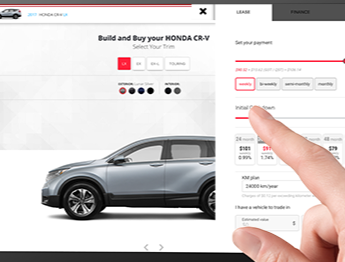
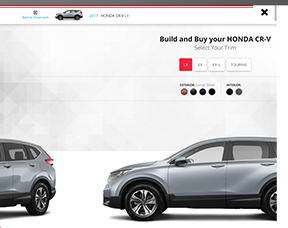
Showroom recadré sur l'interface seule, ligne du hero dégagée du nom

diff --git a/src/components/Hero.tsx b/src/components/Hero.tsx
@@ -56,12 +56,12 @@ function LineMap({ colors, reduced }: { colors: string[]; reduced: boolean }) {
   // routed along the right edge and above the name so no segment crosses body copy or the board
   const pts = [
     [1440, 720],
-    [1240, 720],
-    [1060, 540],
-    [1060, 330],
-    [880, 150],
-    [600, 150],
-    [430, -20],
+    [1280, 720],
+    [1200, 640],
+    [1200, 330],
+    [1040, 150],
+    [720, 150],
+    [560, -20],
   ]
   const d = pts.map(([x, y], i) => `${i === 0 ? 'M' : 'L'}${x} ${y}`).join(' ')
   const stations = [pts[1], pts[2], pts[3], pts[4], pts[5]]

diff --git a/src/components/Visuals.tsx b/src/components/Visuals.tsx
@@ -93,7 +93,7 @@ function ShowroomVisual() {
         src="/projects/showroom-tablet-screen.png"
         alt={lang === 'fr' ? 'Showroom 360 : configuration d’un véhicule et calcul du financement' : 'Showroom 360: vehicle build and financing calculator'}
         url="showroom 360 — build & buy"
-        ratio="345 / 262"
+        ratio="288 / 228"
       />
     </Tilt>
   )

diff --git a/src/components/Visuals.module.scss b/src/components/Visuals.module.scss
@@ -91,6 +91,8 @@
 /* ---------- Showroom ---------- */
 .showroom {
   padding: 4% 0;
+  max-width: 560px;
+  margin-inline: auto;
 }
 
 /* ---------- Facilité ---------- */

diff --git a/DESIGN.md b/DESIGN.md
@@ -1,0 +1,326 @@
+---
+name: Portfolio Corentin Le Gourrierec
+description: Une carrière lue comme une ligne de transport, encre profonde, signal vert, une couleur de ligne par station.
+colors:
+  ink-0: "#07080c"
+  ink-1: "#0c0e15"
+  ink-2: "#12151f"
+  ink-3: "#1a1e2b"
+  edge: "rgba(255, 255, 255, 0.08)"
+  edge-strong: "rgba(255, 255, 255, 0.16)"
+  paper: "#eef0f5"
+  paper-2: "#b8bfd1"
+  paper-3: "#8089a1"
+  signal: "#5cf0a2"
+  signal-ink: "#062b18"
+  station-akinox: "#3d86f0"
+  station-expretio: "#7c5cff"
+  station-360agency: "#ff4b5c"
+  station-facilite: "#ffb340"
+  station-lorient: "#2ad4c6"
+typography:
+  display:
+    fontFamily: "Archivo, Helvetica Neue, Arial, sans-serif"
+    fontSize: "min(clamp(40px, 14px + 7.22vw, 118px), 9.6vw)"
+    fontWeight: 850
+    lineHeight: 0.88
+    letterSpacing: "-0.03em"
+    fontVariation: "'wdth' 116, 'wght' 850"
+  headline:
+    fontFamily: "Archivo, Helvetica Neue, Arial, sans-serif"
+    fontSize: "clamp(40px, 21.33px + 5.19vw, 96px)"
+    fontWeight: 800
+    lineHeight: 0.95
+    letterSpacing: "-0.03em"
+    fontVariation: "'wdth' 118, 'wght' 800"
+  tagline:
+    fontFamily: "Archivo, Helvetica Neue, Arial, sans-serif"
+    fontSize: "clamp(22px, 18px + 1.11vw, 34px)"
+    fontWeight: 700
+    lineHeight: 1.1
+    letterSpacing: "-0.02em"
+    fontVariation: "'wdth' 108, 'wght' 700"
+  title:
+    fontFamily: "Archivo, Helvetica Neue, Arial, sans-serif"
+    fontSize: "clamp(20px, 17.33px + 0.74vw, 28px)"
+    fontWeight: 700
+    lineHeight: 1.15
+    letterSpacing: "-0.03em"
+    fontVariation: "'wdth' 108, 'wght' 700"
+  lede:
+    fontFamily: "Archivo, Helvetica Neue, Arial, sans-serif"
+    fontSize: "clamp(17px, 15.33px + 0.46vw, 22px)"
+    fontWeight: 400
+    lineHeight: 1.45
+    letterSpacing: "normal"
+    fontVariation: "'wdth' 100, 'wght' 400"
+  body:
+    fontFamily: "Archivo, Helvetica Neue, Arial, sans-serif"
+    fontSize: "1.0625rem"
+    fontWeight: 400
+    lineHeight: 1.55
+    letterSpacing: "normal"
+    fontVariation: "'wdth' 100, 'wght' 400"
+  label:
+    fontFamily: "Archivo, Helvetica Neue, Arial, sans-serif"
+    fontSize: "0.72rem"
+    fontWeight: 700
+    lineHeight: 1
+    letterSpacing: "0.14em"
+    fontVariation: "'wdth' 118, 'wght' 700"
+  mono:
+    fontFamily: "Martian Mono, ui-monospace, SF Mono, Menlo, monospace"
+    fontSize: "0.74rem"
+    fontWeight: 500
+    lineHeight: 1
+    letterSpacing: "normal"
+    fontFeature: "tabular-nums"
+rounded:
+  cell: "3px"
+  tag: "4px"
+  chip: "6px"
+  board: "8px"
+  frame: "14px"
+  pill: "999px"
+spacing:
+  hairline-row: "16px"
+  stack-gap: "20px"
+  station-inner: "clamp(28px, 21.33px + 1.85vw, 48px)"
+  station-body: "clamp(32px, 24px + 2.22vw, 56px)"
+  section-header: "clamp(48px, 24px + 6.67vw, 120px)"
+  section-block: "clamp(80px, 53.33px + 7.41vw, 160px)"
+  station-gap: "clamp(96px, 61.33px + 9.63vw, 200px)"
+  gutter: "clamp(16px, 4vw, 48px)"
+  container: "1360px"
+  nav-h: "64px"
+components:
+  btn-primary:
+    backgroundColor: "{colors.signal}"
+    textColor: "{colors.signal-ink}"
+    typography: "{typography.label}"
+    rounded: "{rounded.pill}"
+    padding: "1.05em 1.5em"
+  btn-ghost:
+    backgroundColor: "transparent"
+    textColor: "{colors.paper}"
+    typography: "{typography.label}"
+    rounded: "{rounded.pill}"
+    padding: "1.05em 1.5em"
+  nav-link:
+    backgroundColor: "transparent"
+    textColor: "{colors.paper-2}"
+    typography: "{typography.label}"
+    rounded: "{rounded.pill}"
+    padding: "0.9em 1em"
+  nav-link-hover:
+    backgroundColor: "rgba(255, 255, 255, 0.06)"
+    textColor: "{colors.paper}"
+  lang-toggle:
+    backgroundColor: "transparent"
+    textColor: "{colors.paper-3}"
+    typography: "{typography.mono}"
+    rounded: "{rounded.pill}"
+    padding: "0.6em 0.9em"
+  chip-stack:
+    backgroundColor: "rgba(var(--s-rgb), 0.08)"
+    textColor: "{colors.paper}"
+    typography: "{typography.mono}"
+    rounded: "{rounded.chip}"
+    padding: "0.55em 0.9em"
+  chip-tab:
+    backgroundColor: "transparent"
+    textColor: "{colors.paper-3}"
+    typography: "{typography.label}"
+    rounded: "{rounded.pill}"
+    padding: "0.9em 1.1em"
+  chip-tab-selected:
+    backgroundColor: "rgba(var(--station-rgb), 0.12)"
+    textColor: "{colors.paper}"
+  screen-frame:
+    backgroundColor: "{colors.ink-2}"
+    rounded: "{rounded.frame}"
+  split-flap-board:
+    backgroundColor: "{colors.ink-1}"
+    rounded: "{rounded.board}"
+    padding: "0.55em"
+  split-flap-cell:
+    backgroundColor: "{colors.ink-3}"
+    textColor: "{colors.paper}"
+    typography: "{typography.mono}"
+    rounded: "{rounded.cell}"
+  hairline-row:
+    backgroundColor: "transparent"
+    textColor: "{colors.paper}"
+    padding: "18px 0"
+---
+
+# Design System: Portfolio Corentin Le Gourrierec
+
+## Overview
+
+**Creative North Star: "Le plan de ligne"**
+
+Le site est un plan de transport lu de haut en bas : cinq stations (Akinox, Expretio, 360.Agency, Facilité Informatique, Ville de Lorient), un rail vertical qui se remplit au scroll, un marqueur « vous êtes ici » épinglé à 55 % de la hauteur d'écran. Tout ce qui est écrit a la voix d'une signalétique de quai : Archivo étiré et en capitales pour les panneaux, Martian Mono pour les tableaux de départ et les données, texte courant en Archivo à chasse normale. Le fond est une encre profonde (`ink-0`) qui ne lit jamais comme du noir plat grâce à un grain SVG fixe à 35 % d'opacité et à deux halos radiaux teintés par la station active.
+
+La couleur structure la lecture. Le vert `signal` est réservé à l'utilisateur (« vous êtes ici », action principale, sélection, focus, terminus). Chaque station impose sa couleur de ligne à toute la page via `--station` / `--station-rgb` posés sur `:root` par un IntersectionObserver ; barre de progression de la nav, point de marque, remplissage du rail, halos, onglets sélectionnés, années de formation et niveaux de langue suivent tous cette variable. Un seul moment d'animation est réellement mis en scène : le rail et la couleur qui avancent avec le scroll. Le reste est de l'entrée (flou vers net) ou de la réponse à un geste.
+
+La densité est éditoriale : sections espacées de 80 à 200 px, stations séparées de 96 à 200 px, listes en rangées séparées par des filets à 8 % de blanc. Aucune carte : les contenus sont posés directement sur l'encre, et seuls les écrans de produits (navigateur, téléphone, éditeur, tuiles) reçoivent un cadre et une ombre.
+
+**Key Characteristics:**
+- Encre profonde à quatre paliers, texte en trois teintes de papier, un seul vert signal.
+- Couleur de ligne par station, propagée à toute la page par `--station` / `--station-rgb`.
+- Archivo variable : largeur 104–122 pour l'affichage et la signalétique, 100 pour le texte courant.
+- Martian Mono en chiffres tabulaires pour dates, URL, cellules du tableau à volets, puces de stack.
+- Rangées à filets et pilules, jamais de cartes ; cadres d'écran réservés aux visuels produits.
+- Motion : un moment scroll-driven, entrées flou-vers-net, tout inerte sous `prefers-reduced-motion` ou `?static`.
+
+## Colors
+
+Une encre bleutée profonde, trois papiers froids, un vert signal saturé, et cinq couleurs de ligne qui ne coexistent que sur le plan du hero.
+
+### Primary
+- **Signal vert** (`signal`) : la couleur de l'utilisateur. Bouton principal, `::selection`, anneau de focus (2 px, décalé de 4 px), point de marque au repos, terminus de la section contact, départ du dégradé du rail, halo du hero (`rgba(92, 240, 162, 0.16)`) et du contact (`0.14`). Jamais utilisé pour un titre ni pour un texte courant.
+- **Signal encre** (`signal-ink`) : seul texte autorisé sur fond `signal` (bouton principal, lien d'évitement, sélection).
+
+### Secondary
+- **Couleur de station** (`--station`, avec `--station-rgb` pour les alphas) : variable vivante, jamais une valeur fixe dans un composant. Valeurs : bleu Québec `station-akinox`, violet Appia `station-expretio`, rouge 360 `station-360agency`, ambre `station-facilite`, turquoise Lorient `station-lorient`. Elle colore la barre de progression de la nav (2 px), le point de marque une fois scrollé, l'arrêt actif du rail, les halos du parcours (`0.16` et `0.08`), les onglets sélectionnés (`0.12`), les années de formation, les jauges de langue, la face survolée des compétences. Dans une station, la même couleur est locale sous `--s` / `--s-rgb` (années, chiffres, tirets de puces, chips de stack à `0.08` de fond et `0.35` de bordure).
+
+### Neutral
+- **Encre 0** (`ink-0`) : fond de page, fond des arrêts de rail (le cercle est évidé sur l'encre).
+- **Encre 1** (`ink-1`) : plateau du tableau à volets, champ d'URL des cadres navigateur.
+- **Encre 2** (`ink-2`) : fond des cadres d'écran (`screen-frame`), onglet actif de l'éditeur.
+- **Encre 3** (`ink-3`) : cellules du tableau à volets, barre de chrome des cadres, onglets d'éditeur.
+- **Filet** (`edge`) : tous les séparateurs et bordures de repos (rangées, cadres, plateau, chips inactifs).
+- **Filet fort** (`edge-strong`) : bordures de boutons fantômes, bascule de langue, corps des téléphones, encadrés « illustration » en pointillés.
+- **Papier** (`paper`) : titres, valeurs, texte des chips, deuxième face des noms.
+- **Papier 2** (`paper-2`) : texte courant, ledes, narrations, liens de nav au repos, seconde ligne du nom du hero.
+- **Papier 3** (`paper-3`) : labels de signalétique, légendes, URL, nom de famille dans la marque, notes de sources.
+
+### Named Rules
+**La règle du signal unique.** Le vert `signal` désigne l'utilisateur et son action ; il ne colore ni titre, ni texte, ni décoration de station. Sur un écran, on le voit sur l'action principale, le focus, le point de marque et rien d'autre.
+
+**La règle de la ligne vivante.** Une couleur de station n'est jamais écrite en dur dans un composant : elle passe par `--station` (page) ou `--s` (station courante), et toute teinte de fond dérivée se fait en `rgba(var(--station-rgb), α)` avec α ≤ 0.18.
+
+**La règle des trois papiers.** Le texte n'a que trois valeurs : `paper` pour ce qui se lit en premier, `paper-2` pour ce qui se lit, `paper-3` pour ce qui se repère. Aucun gris intermédiaire.
+
+## Typography
+
+**Display Font:** Archivo variable (axes `wdth` 62–125, `wght` 100–900), fallback Helvetica Neue, Arial
+**Body Font:** Archivo à chasse 100, graisse 400
+**Label/Mono Font:** Martian Mono (graisses 300–800), fallback ui-monospace, SF Mono, Menlo
+
+**Character :** une seule famille qui change de largeur selon son rôle. Étirée (104–122) et lourde (700–850) pour les panneaux, normale (100) pour la lecture, étirée et espacée (0.14em) en capitales pour les labels. Martian Mono, toujours en chiffres tabulaires, est la voix des données : dates, URL, tableau de départ, stack.
+
+### Hierarchy
+- **Display** (Archivo wdth 116 / wght 850, `min(fluid(40, 118), 9.6vw)`, interligne 0.88, capitales) : le nom du hero. Les noms d'entreprise utilisent la même famille à wdth 104 (122 dès 820 px) / wght 850 avec une taille bornée pour que le mot le plus long tienne sur une ligne (`fluid(44, 128)` plafonné par `min(80vw, 1150px) / (glyphe × longueur)`). Le titre du contact monte à wdth 120 / wght 850, `fluid(48, 140)`.
+- **Headline** (wdth 118 / wght 800, `fluid(40, 96)`, interligne 0.95, capitales) : titres de section « Parcours », « Expertise », « Formation ».
+- **Tagline** (wdth 108 / wght 700, `fluid(22, 34)`, interligne 1.1, espacement -0.02em) : phrase d'accroche de chaque station. Même réglage à `fluid(24, 46)` pour les compétences.
+- **Title** (wdth 108 / wght 700, `fluid(20, 28)`, interligne 1.15) : intitulés de diplômes, noms de langues (`fluid(20, 26)`).
+- **Lede** (wdth 100 / wght 400, `fluid(17, 22)`, interligne 1.45, `paper-2`, 54–62ch, `text-wrap: pretty`) : introduction du hero (`fluid(17, 24)`, 56ch) et ledes de section.
+- **Body** (wdth 100 / wght 400, 1.0625rem, interligne 1.55, `paper-2`) : narrations de station (`fluid(16, 18)`), puces (0.98rem). Rôle et ville à wght 500, `fluid(16, 21)`.
+- **Label / signage** (wdth 112–120 / wght 600–700, 0.72rem, espacement 0.14em, capitales, interligne 1) : boutons, liens de nav, labels de stack, titres de plateforme, labels de contact, marqueur « vous êtes ici », onglets du deck.
+- **Mono** (Martian Mono 500–600, tabular-nums) : années de station (`fluid(14, 20)`, 600, espacement 0.04em, couleur de station), bascule FR/EN (0.78rem, 600), chips de stack (0.74rem, 500), URL des cadres (0.66rem), notes de sources (0.68rem, 400), cellules du tableau à volets (600, taille calée sur la largeur de cellule).
+- **Figures** (wdth 112 / wght 800, `fluid(28, 44)`, interligne 1, couleur de station) : chiffres clés en `dd` avant leur `dt` à 0.85rem `paper-3`.
+
+### Named Rules
+**La règle de la chasse.** La largeur Archivo dit le rôle : ≥ 104 et capitales pour ce qui s'affiche, 100 pour ce qui se lit. Un texte courant n'est jamais étiré, un titre n'est jamais à chasse 100.
+
+**La règle du tableau de départ.** Toute donnée (date, URL, version, stack, chiffre de tableau) est en Martian Mono à chiffres tabulaires ; toute prose est en Archivo. Les deux ne se mélangent pas dans une même ligne, sauf le séparateur.
+
+**La règle de la ligne entière.** Un nom d'entreprise ne se coupe jamais dans un mot : la taille se réduit avant la césure (`overflow-wrap: normal` + plafond calculé).
+
+## Layout
+
+Un seul conteneur : `min(100% - 2 × gutter, 1360px)` centré, gouttière fluide `clamp(16px, 4vw, 48px)`. Points de rupture mobile-first : 560 px (`sm`), 820 px (`md`), 1080 px (`lg`), 1400 px (`xl`). Nav fixe de 64 px (`--nav-h`) avec un voile en dégradé vertical `rgba(7,8,12,.92) → 0` qui n'apparaît qu'une fois scrollé, et une barre de progression de 2 px en couleur de station au bord inférieur.
+
+Le hero occupe `100svh`, grille à une colonne alignée à gauche, plan de ligne SVG en arrière-plan (opacité 0.5 → 0.7 à `md` → 0.85 à `lg`, masqué vers le bas sous `md`). Le parcours est une grille `rail | stations` de 28 px + 16 px d'écart, 72 px + 32 px à `md`, 96 px + 48 px à `lg`. Chaque station est une grille en-tête / corps ; le corps passe en deux colonnes `5fr / 7fr` à `lg`, inversées `7fr / 5fr` pour les stations paires à `xl`. Les en-têtes de section « titre | lede » passent en deux colonnes égales à `lg`. La formation passe en `7fr / 5fr` à `lg`.
+
+Rythme vertical par `fluid(min, max)` entre 360 et 1440 px : sections `fluid(80, 160)` à `fluid(100, 200)` de padding, en-tête de section `fluid(48, 120)` de marge basse, stations séparées de `fluid(96, 200)`, intérieur de station `fluid(28, 48)`, corps `fluid(32, 56)`. Les rangées (chiffres, plateformes, diplômes, contacts) ont 16 à 26 px de padding vertical entre deux filets `edge`. Écarts fixes de 8 px (chips), 12 px (puces, actions), 20 px (blocs d'en-tête) et 22 px (texte de station).
+
+Densité mobile : la nav ne garde que la marque, « Contact » et FR/EN ; le tableau à volets se réduit à des cellules de `clamp(0.5rem, 2.3vw, 1.55rem)` de large ; le marqueur textuel « vous êtes ici » n'apparaît qu'à `lg`.
+
+## Elevation & Depth
+
+Le système est plat et tonal : la profondeur vient des quatre paliers d'encre, des filets à 8 % de blanc, du grain fixe et des halos radiaux en couleur de station. Les ombres n'existent que sous les objets physiques du monde : écrans, plateau du tableau à volets, téléphone. Elles sont toujours grandes, très floues, très décalées vers le bas et à alpha élevé sur l'encre, jamais dures ni offset. Le glass (backdrop-filter) n'est pas utilisé ; le voile de nav est un simple dégradé opaque.
+
+### Shadow Vocabulary
+- **Cadre d'écran** (`box-shadow: 0 30px 60px -20px rgba(0,0,0,.7), 0 12px 24px -12px rgba(0,0,0,.5), inset 0 1px 0 rgba(255,255,255,.05)`) : navigateur, éditeur, tuiles ; le filet intérieur de 1 px en haut simule l'arête éclairée.
+- **Téléphone** (`box-shadow: 0 40px 70px -30px rgba(0,0,0,.85), inset 0 0 0 2px rgba(255,255,255,.04)`) : corps `#0a0b10`, rayon 38 px, écran 28 px.
+- **Plateau à volets** (`box-shadow: inset 0 2px 8px rgba(0,0,0,.6), 0 20px 40px -24px rgba(0,0,0,.8)`) : le tableau est enfoncé dans l'encre.
+- **Halo d'arrêt actif** (`box-shadow: 0 0 0 6px rgba(var(--station-rgb), .18)`) : anneau plat, pas une ombre ; même recette sur le terminus (`rgba(92,240,162,.15)`) et le point de marque (`0 0 0 3px ink-0, 0 0 22px rgba(255,255,255,.8)`).
+
+### Named Rules
+**La règle de l'objet.** Une ombre portée n'est posée que sous une chose qui existerait physiquement (écran, tableau, appareil). Un bloc de texte, une rangée, un chip ne portent jamais d'ombre.
+
+**La règle du halo plat.** L'emphase d'un point ou d'un arrêt se fait par un anneau `0 0 0 N px` en alpha de la couleur active, jamais par un flou.
+
+## Shapes
+
+Deux familles de formes. Les interactifs textuels sont des pilules (`999px`) : boutons, liens de nav, bascule de langue, onglets du deck, rails et jauges. Les objets sont des rectangles à coins doux gradués selon leur échelle : cellule de volet 3 px, tag de légende 4 px, chip de stack et lien d'évitement 6 px, plateau et enveloppe du tableau 8 px, cadre d'écran 14 px, téléphone 38 px extérieur / 28 px écran. Les points (arrêts, marque, terminus, voyants) sont des cercles évidés : fond `ink-0`, bordure 3 à 5 px dans la couleur active.
+
+Les bordures sont des filets de 1 px en `edge` (repos) ou `edge-strong` (interactif fantôme). L'encadré « illustration » utilise un pointillé 1 px `edge-strong` pour distinguer une reconstitution d'une vraie interface. Les puces de liste sont des tirets de 12 × 2 px en couleur de station, les séparateurs d'années des traits de 36 × 2 px à 60 % d'opacité. Aucun coin vif sur un élément interactif, aucune découpe ni forme oblique.
+
+## Components
+
+### Buttons
+- **Shape :** pilule (`999px`), signalétique 0.72rem wdth 118 / wght 700, capitales, espacement 0.14em, padding `1.05em 1.5em`, icône 1.1em à 0.75em du texte.
+- **Primary :** fond et bordure `signal`, texte `signal-ink`. Survol : fond `#7cf5b6`, remontée de 2 px.
+- **Ghost :** transparent, bordure 1 px `edge-strong`, texte `paper`. Survol : bordure `paper`, remontée de 2 px.
+- **Hover / Focus :** transitions 0.25s `ease-out`; focus visible = contour 2 px `signal` décalé de 4 px avec rayon 4 px (mixin `focus-ring`, partagé par tous les interactifs). Le survol n'existe que sur `(hover: hover) and (pointer: fine)`.
+
+### Chips
+- **Chip de stack** (Martian Mono 0.74rem / 500, padding `0.55em 0.9em`, rayon 6 px) : fond `rgba(var(--s-rgb), .08)`, bordure 1 px `rgba(var(--s-rgb), .35)`, texte `paper`. Inerte, purement informatif.
+- **Onglet de deck** (signalétique 0.72rem / 600, pilule, padding `0.9em 1.1em`) : bordure `edge`, texte `paper-3`, index en Martian Mono 0.7em couleur station. Sélectionné : bordure `station`, fond `rgba(var(--station-rgb), .12)`, texte `paper`.
+- **Tag de légende** (signalétique 0.6rem, rayon 4 px) : « interface réelle » en fond `rgba(var(--s-rgb), .16)` texte `paper` ; « illustration » en pointillé `edge-strong` texte `paper-2`.
+
+### Cards / Containers
+Le système n'a pas de cartes. Les contenus (chiffres, plateformes, diplômes, contacts) sont des **rangées à filets** : `border-top` sur la liste, `border-bottom: 1px edge` sur chaque rangée, padding vertical 16–26 px, grille icône / label / valeur (`28px 140px 1fr` à `md`). La rangée de contact se décale de 8 px au survol et passe sa valeur en `signal`. Les seuls conteneurs sont les **cadres d'écran** (voir composant signature).
+
+### Inputs / Fields
+Aucun champ de saisie dans le produit ; le contact se fait par liens directs. Seule la bascule FR/EN (Martian Mono 0.78rem / 600, pilule, bordure `edge-strong`, texte `paper-3`, langue active en `paper`) tient lieu de contrôle.
+
+### Navigation
+- Barre fixe 64 px, gouttière latérale, marque à gauche (point de 12 px bordé 3 px `signal`, devient `station` une fois scrollé ; prénom en signalétique wdth 115 / 700 espacée 0.1em, nom en 500 `paper-3` masqué sous `sm`).
+- Liens en signalétique wdth 112 / 600, `paper-2`, padding `0.9em 1em`, pilule ; survol `paper` sur `rgba(255,255,255,.06)`. Sous `md`, seul le dernier lien (« Contact ») reste.
+- Voile en dégradé `rgba(7,8,12,.92) → 0` fondu en 0.4s dès le premier scroll ; barre de progression 2 px en couleur de station.
+- Lien d'évitement : fond `signal`, rayon 6 px, visible seulement au focus.
+
+### Tableau à volets (composant signature)
+Un tableau de départs qui fait défiler rôle, stack, ancienneté et ville. Plateau `ink-1`, bordure `edge`, rayon 8 px, padding 0.55em, ombre enfoncée, `perspective: 600px`. Cellules Martian Mono 600, `ink-3`, rayon 3 px, largeur `clamp(0.5rem, 2.3vw, 1.55rem)`, hauteur 1.55 × largeur, taille de police 1.05 × largeur, fente centrale de 1 px à 80 % de noir. Moitié haute en dégradé `#272c3d → #1d2130`, moitié basse `#181c29 → #12151f`. Chaque volet bascule en 0.1s (`ease-flap` pour la chute, `ease-out` pour le rattrapage), décalé de 28 ms par cellule ; la phrase tient 3.4s. En reduced motion / `?static`, la cible est affichée directement.
+
+### Rail et station (composant signature)
+Rail de 4 px : fantôme `rgba(255,255,255,.07)` sur toute la hauteur, remplissage en dégradé vertical `signal → station à 60 %` mis à l'échelle par le scroll (spring stiffness 90 / damping 26 / mass 0.5, fenêtre `start 55%` → `end 55%`). Arrêts de 16 px (20 px à `md`) évidés `ink-0` bordés 4–5 px dans la couleur de leur station, posés à la hauteur mesurée de chaque en-tête ; l'arrêt actif grandit de 1.35 et prend un halo. Marqueur collant à `top: 55vh` : point blanc de 12 px avec halo lumineux et label vertical « vous êtes ici » en signalétique `paper-3` (≥ `lg`). L'en-tête de station empile années (mono, couleur station, séparateur 36 × 2 px), nom d'entreprise (display), rôle · ville (`paper-2` / séparateur `paper-3`).
+
+### Cadres d'écran (composant signature)
+Mixin `screen-frame` : fond `ink-2`, bordure `edge`, rayon 14 px, ombre de cadre, `overflow: hidden`. Variante **navigateur** : chrome de 34 px `ink-3` avec trois voyants 9 px à 18 % de blanc et URL en Martian Mono 0.66rem sur pilule `ink-1` ; image en 16/10 alignée en haut. Variante **téléphone** : ratio 9/19, corps `#0a0b10`, encoche 34 % / 20 px, écran blanc rayon 28 px, capture qui défile en 16s aller-retour. Variante **éditeur** : onglets Martian Mono 0.7rem, onglet actif souligné 2 px `station`, panneaux avant / flèche / après (ancien barré en `rgba(255,75,92,.5)`, nouveau sur `rgba(var(--station-rgb), .06)`). Les cadres sont enveloppés dans un **Tilt** (perspective 1400 px, ±7° suivant le pointeur souris, spring 120 / 18 / 0.6, inerte au toucher et en reduced motion). Le **deck** Appia superpose trois cadres en `translate3d` / `rotateY` (0 / -6° / -10°, luminosité 1 / 0.7 / 0.45) permutés par les onglets, transition 0.7s.
+
+### Motion
+- **Un seul moment mis en scène :** le rail qui se remplit et la couleur de page qui change avec le scroll. Tout le reste est entrée ou réponse.
+- **Entrées :** `opacity 0 → 1`, `y 24–30px → 0`, `filter: blur(8–10px) → 0`, 0.9s, courbe `ease-out` `cubic-bezier(0.16, 1, 0.3, 1)`, une seule fois, marge de déclenchement -10 %. Le hero cascade ses blocs ; le plan SVG trace ses lignes (`pathLength`) et fait apparaître ses arrêts.
+- **Réponses :** survols en 0.2–0.35s `ease-out` (remontée 2 px, décalage 8 px, changement de bordure), faces de compétences qui glissent en 0.55s, tuiles Lorient en entrée décalée de 80 ms.
+- **Courbes :** `--ease-out` pour tout ; `--ease-flap` `cubic-bezier(0.4, 0, 0.7, 0.2)` réservé à la chute d'un volet.
+- **Défilement :** Lenis (`lerp 0.11`, `wheelMultiplier 0.95`) avec ancres à -24 px, uniquement hors reduced motion.
+- **Reduced motion et `?static` :** le hook `useReducedMotion` renvoie vrai si l'OS le demande ou si l'URL porte `?static`. Alors : pas de Lenis, pas d'entrées, rail rempli à 100 %, tableau figé sur sa phrase, Tilt inerte, plan SVG tracé d'emblée, aucune boucle (flèche de scroll, défilement de téléphone, tuiles). Les changements de couleur de station restent actifs.
+
+## Do's and Don'ts
+
+### Do:
+- **Do** poser tout contenu directement sur `ink-0` et le structurer par des filets 1 px `edge` ; un nouveau bloc de contenu est une rangée, pas une boîte.
+- **Do** dériver toute teinte de station de `--station` / `--station-rgb` (ou `--s` / `--s-rgb` dans une station) avec un alpha ≤ 0.18 pour les fonds et ≤ 0.35 pour les bordures.
+- **Do** utiliser Archivo étiré (wdth ≥ 104, wght ≥ 700) et les capitales pour tout ce qui est titre ou signalétique, et Archivo wdth 100 / 400 pour tout ce qui se lit.
+- **Do** mettre les données (dates, URL, versions, stack, cellules) en Martian Mono à chiffres tabulaires.
+- **Do** dimensionner le rythme vertical avec `fluid(min, max)` entre 360 et 1440 px et le rythme horizontal avec `--gutter` et le conteneur 1360 px.
+- **Do** appliquer `focus-ring` (2 px `signal`, décalage 4 px) à tout interactif et restreindre les survols à `(hover: hover) and (pointer: fine)`.
+- **Do** faire entrer un élément par flou-vers-net (`blur(8px)` → 0, 0.9s, `ease-out`), une seule fois, et rendre ce mouvement inerte sous reduced motion / `?static`.
+- **Do** distinguer une reconstitution d'une vraie interface par le tag « illustration » en pointillé et créditer l'éditeur en légende.
+
+### Don't:
+- **Don't** créer de cartes : pas de bloc de texte avec fond `ink-1`/`ink-2`, bordure et ombre. Les cadres d'écran sont réservés aux visuels produits.
+- **Don't** ajouter de kicker ou d'eyebrow au-dessus d'un titre ; les titres de section se tiennent seuls avec leur lede.
+- **Don't** numéroter les sections ni les stations ; la position est dite par le rail et le marqueur, pas par un chiffre.
+- **Don't** appliquer de dégradé à du texte (`background-clip: text`). Les dégradés du monde sont réservés au rail, aux volets, au voile de nav et aux halos.
+- **Don't** utiliser `backdrop-filter` ni aucun effet verre ; le voile de nav est un dégradé opaque.
+- **Don't** porter d'ombre sous un texte, une rangée ou un chip ; les ombres appartiennent aux écrans, au plateau et au téléphone.
+- **Don't** écrire une couleur de station en dur dans un composant ni utiliser `signal` pour un titre, un texte ou une décoration de station.
+- **Don't** laisser un nom d'entreprise se couper dans un mot ; réduire la taille avant la césure.
+- **Don't** introduire un quatrième gris de texte ou une graisse Archivo entre 400 et 700 pour le texte courant (500 est réservé à rôle · ville et aux valeurs de contact).
